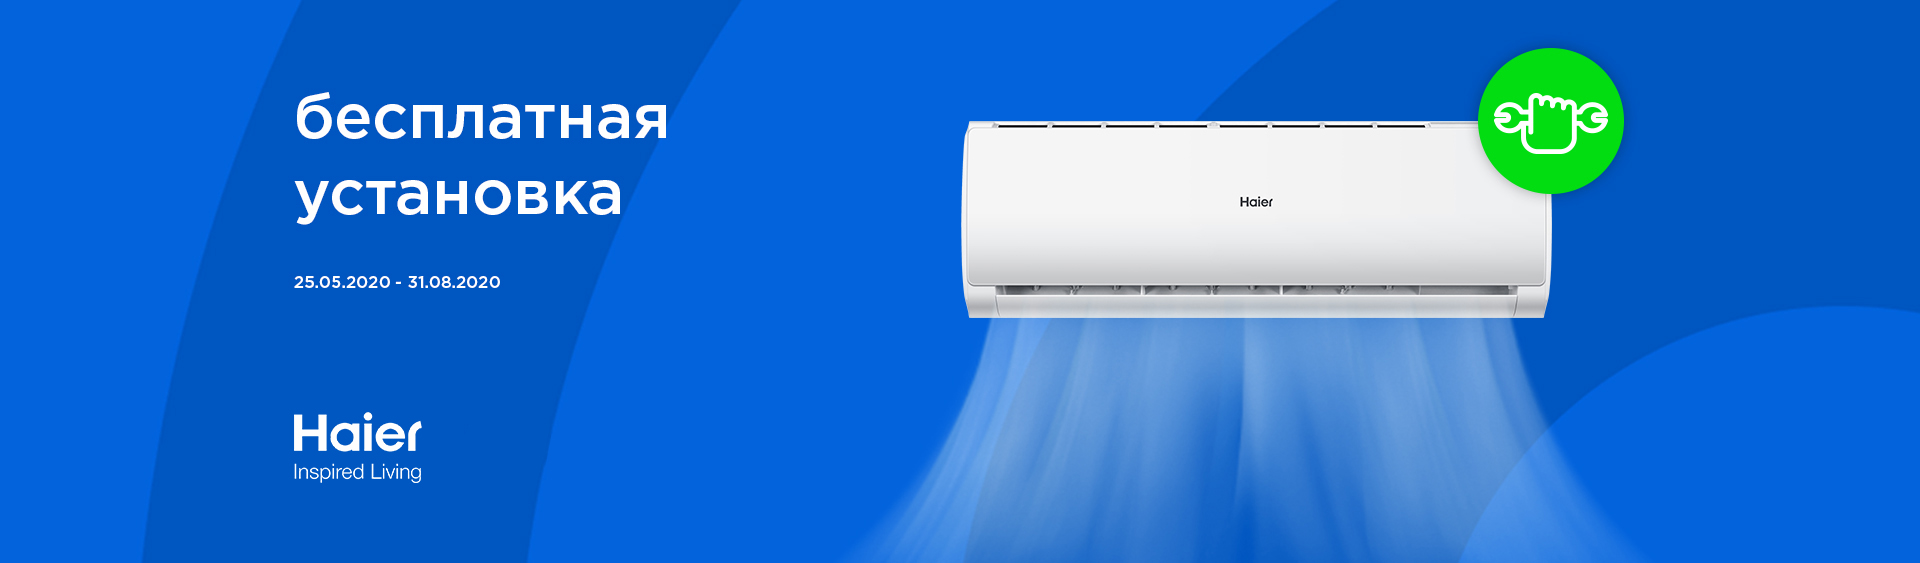
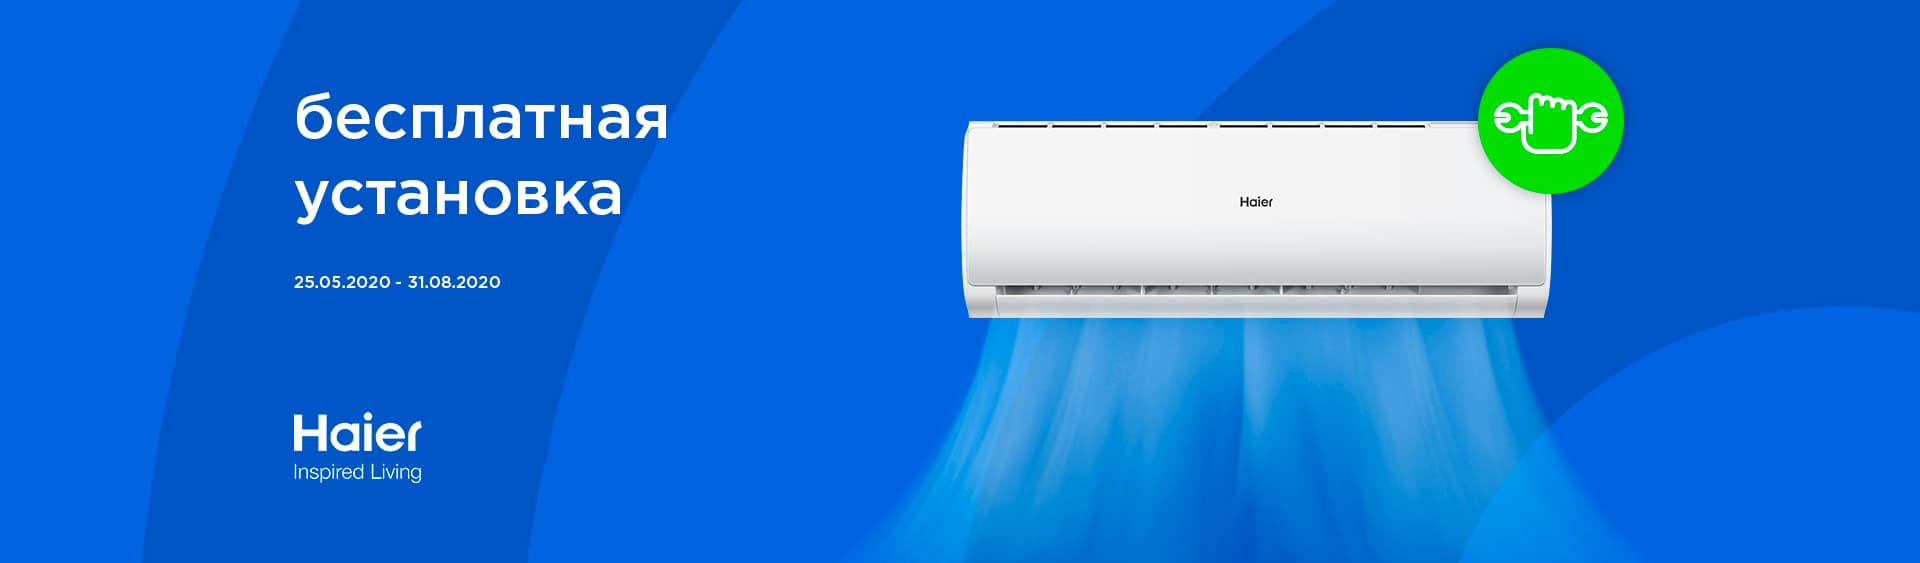
webp images converted to jpg for support webkit browsers

diff --git a/styles/_checkout.scss b/styles/_checkout.scss
@@ -136,7 +136,12 @@ form.checkout_form {
             display: flex;
             flex-direction: column;
             margin-bottom: 15px;
+            input[type=text], input[type=tel] {
+                -webkit-appearance: none;
+            }
             input, textarea {
+                -webkit-appearance: none;
+                box-shadow: none !important;
                 width: 100%;
                 height: 54px;
                 font-family: $base-font;
@@ -155,6 +160,9 @@ form.checkout_form {
                 outline: 0;
                 &:focus {
                     border-color: $primary-color;
+                }
+                @include sm {
+                    height: 48px;
                 }
             }
             textarea {
@@ -254,10 +262,7 @@ form.checkout_form {
     @include sm {
         order: 0;
         width: 100%;
-        padding-left: 15px;
-        padding-right: 15px;
-        padding-top: 40px;
-        padding-bottom: 30px;
+        padding: 40px 20px 30px;
         position: relative !important;
     }
     .sticky_outer-wrapper {
@@ -272,8 +277,9 @@ form.checkout_form {
                 background-color: white;
                 padding: 30px 30px 20px;
                 @include sm {
-                    padding: 0;
-                    background-color: transparent;
+                    padding: 20px 5px;
+                    background-color: white;
+                    box-shadow: rgba(0, 0, 0, 0.08) 0 2px 16px 0;
                 }
                 h3 {
                     font-family: $base-font;
@@ -395,9 +401,6 @@ form.checkout_form {
                 }
                 .order_info {
                     box-shadow: rgba(0, 0, 0, 0.08) 0 2px 16px 0;
-                    @include sm {
-                        box-shadow: none;
-                    }
                 }
             }
         }

diff --git a/components/banner.js b/components/banner.js
@@ -8,16 +8,16 @@ export default function Banner({ double }) {
                 {double ?
                     <Row className="products_row">
                         <Col lg={9} className="banner">
-                            <img src="images/cashback.webp" alt="Bonuses" className="img-fluid" />
+                            <img src="images/cashback.jpg" alt="Bonuses" className="img-fluid" />
                         </Col>
                         <Col lg={3} className="banner">
-                            <img src="images/card_zero.webp" alt="Bonuses" className="img-fluid" />
+                            <img src="images/card_zero.jpg" alt="Bonuses" className="img-fluid" />
                         </Col>
                     </Row>
                      :
                     <Row className="products_row">
                         <Col lg={12} className="banner">
-                            <img src="images/samsung.webp" alt="Bonuses" className="img-fluid" />
+                            <img src="images/samsung.jpg" alt="Bonuses" className="img-fluid" />
                         </Col>
                     </Row>}
             </Container>

diff --git a/components/home-splash.js b/components/home-splash.js
@@ -5,16 +5,16 @@ export default function HomeSplash() {
         <section className="home_splash">
             <Carousel>
                 <Carousel.Item>
-                    <img src="images/carousel_1.png" alt="Goodzone gifts"/>
+                    <img src="images/carousel_1.jpg" alt="Goodzone gifts"/>
                 </Carousel.Item>
                 <Carousel.Item>
                     <img src="images/carousel_2.jpg" alt="Goodzone gifts"/>
                 </Carousel.Item>
                 <Carousel.Item>
-                    <img src="images/carousel_3.png" alt="Goodzone gifts"/>
+                    <img src="images/carousel_3.jpg" alt="Goodzone gifts"/>
                 </Carousel.Item>
                 <Carousel.Item>
-                    <img src="images/carousel_4.webp" alt="Goodzone gifts"/>
+                    <img src="images/carousel_4.jpg" alt="Goodzone gifts"/>
                 </Carousel.Item>
             </Carousel>
         </section>

diff --git a/styles/_header.scss b/styles/_header.scss
@@ -199,11 +199,12 @@ header {
           position: fixed;
           bottom: 0;
           left: -550px;
-          top: unset;
-          right: unset;
+          top: 0;
+          right: 0;
           width: 100vw;
           height: 100vh;
           padding: 0;
+          box-shadow: none;
           visibility: visible;
           overflow-y: scroll;
           overflow-x: hidden;
@@ -236,6 +237,7 @@ header {
             align-items: center;
             padding: 20px;
             background-color: $bg-color;
+            visibility: visible;
             a {
               display: block;
               img {
@@ -316,6 +318,7 @@ header {
               left: 100%;
               right: 0;
               min-width: 400px;
+              min-height: calc(100% + 40px);
               margin: 0;
               background-color: rgb(255, 255, 255);
               box-shadow: rgba(142, 142, 142, 0.14) 0 3px 20px;

diff --git a/styles/_product-list.scss b/styles/_product-list.scss
@@ -93,7 +93,6 @@ main {
           height: 36px;
           margin-right: 10px;
           border: none;
-          outline-color: none;
           border-radius: 6px;
           background-color: $bg-color;
           transition: all .2s ease-in-out;
@@ -101,7 +100,8 @@ main {
             margin-right: 0;
           }
           svg {
-            font-size: 20px;
+            display: inline-block;
+            font-size: 15px;
             fill: $link-color;
           }
           &:hover, &:focus, &.active {
@@ -322,6 +322,12 @@ main {
         text-decoration: none;
         @include sm {
           height: 145px;
+        }
+        img {
+          width: auto;
+          height: auto;
+          max-width: 100%;
+          max-height: 100%;
         }
       }
       .product_info {

diff --git a/components/departments-menu.js b/components/departments-menu.js
@@ -6,7 +6,9 @@ export default function DepartmentsMenu({ categories, closeMenu, logo }) {
     const [loaded, setLoaded] = useState(false);
     useEffect(() => {
         setLoaded(true);
-        document.body.classList.add("overflow");
+        const vw = window.innerWidth;
+        if(vw < 900) 
+            document.body.classList.add("overflow");
         return () => document.body.classList.remove("overflow");
     });
     return (

diff --git a/components/cart-popup.js b/components/cart-popup.js
@@ -47,6 +47,8 @@ export default function CartPopup() {
         if (!totalQuantity) {
             setCart(false);
         }
+        const vw = window.innerWidth;
+        
     }, [totalQuantity]);
 
     return totalQuantity ? (
